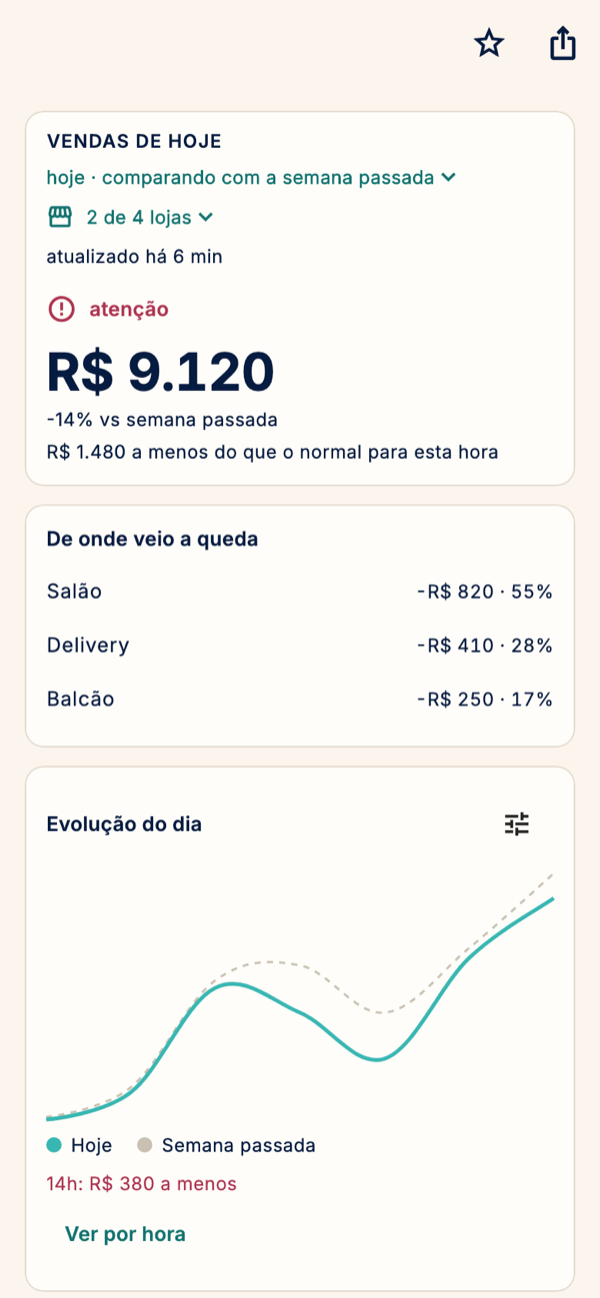
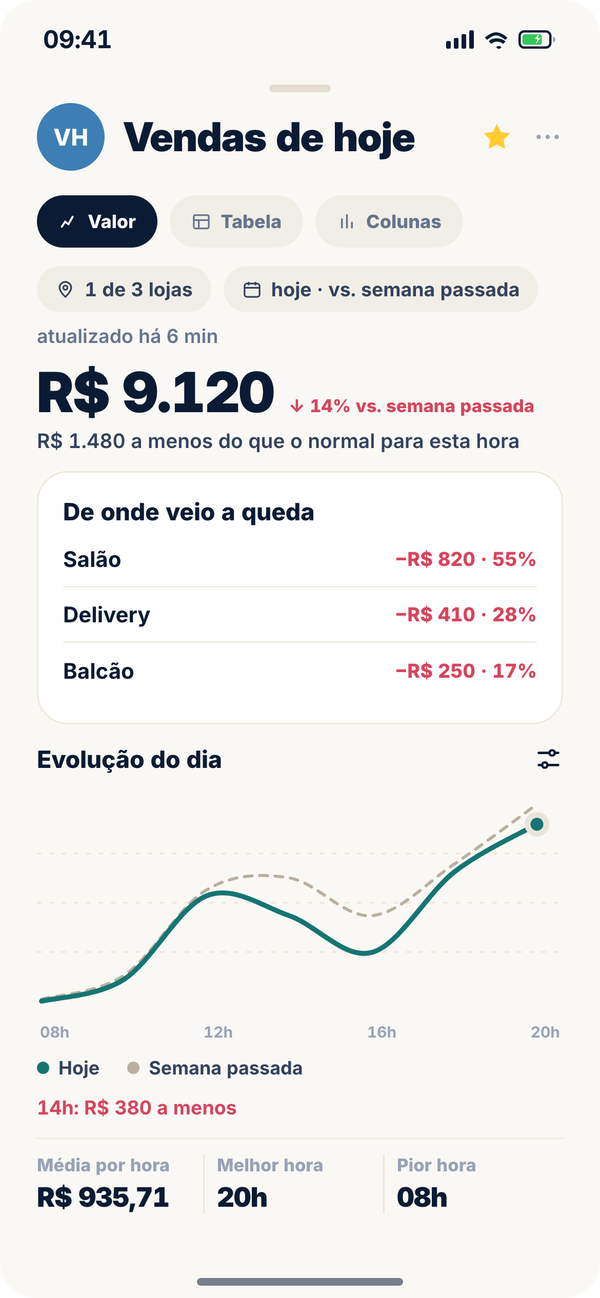
Atualiza os screenshots do Metria

diff --git a/index.html b/index.html
@@ -96,10 +96,10 @@
 
       <div class="shots">
         <div class="shot">
-          <img src="assets/metria-pulso.png" alt="Metria home screen, with the verdict for the day at the top and one card per indicator: today's sales, average ticket, customers and delivery. The app interface is in Portuguese." width="600" height="1298" loading="lazy" decoding="async">
+          <img src="assets/metria-pulso.png" alt="Metria home screen with the store name, the day's sales, average ticket and revenue by store. The app interface is in Portuguese." width="600" height="1298" loading="lazy" decoding="async">
         </div>
         <div class="shot">
-          <img src="assets/metria-detail.png" alt="Metria indicator detail screen, breaking down where the drop came from alongside the chart for the day. The app interface is in Portuguese." width="600" height="1298" loading="lazy" decoding="async">
+          <img src="assets/metria-detail.png" alt="Metria indicator detail screen with the drop broken down by sales channel, the day's evolution chart and the comparison with last week. The app interface is in Portuguese." width="600" height="1298" loading="lazy" decoding="async">
         </div>
       </div>
     </div>

diff --git a/br/index.html b/br/index.html
@@ -96,10 +96,10 @@
 
       <div class="shots">
         <div class="shot">
-          <img src="../assets/metria-pulso.png" alt="Tela inicial do Metria, com o veredito do dia no topo e um cartão por indicador: vendas de hoje, ticket médio, clientes e delivery." width="600" height="1298" loading="lazy" decoding="async">
+          <img src="../assets/metria-pulso.png" alt="Tela inicial do Metria com o nome da loja, vendas de hoje, ticket médio e faturamento por loja." width="600" height="1298" loading="lazy" decoding="async">
         </div>
         <div class="shot">
-          <img src="../assets/metria-detail.png" alt="Tela de detalhe de um indicador do Metria, com a origem da queda e o gráfico de evolução do dia." width="600" height="1298" loading="lazy" decoding="async">
+          <img src="../assets/metria-detail.png" alt="Tela de detalhe do Metria com a origem da queda por canal de venda, o gráfico de evolução do dia e a comparação com a semana passada." width="600" height="1298" loading="lazy" decoding="async">
         </div>
       </div>
     </div>

diff --git a/assets/styles.css b/assets/styles.css
@@ -212,21 +212,18 @@ body {
   justify-content: center;
 }
 
-/* A máscara dissolve o card inteiro — imagem, borda e sombra — no fundo da
-   página, em vez de sobrepor um gradiente que viraria uma faixa cinza sobre
-   o creme do app. */
+/* O print inteiro aparece: o card é o próprio celular, com a borda e a
+   sombra do site em volta dele. */
 .shot {
   position: relative;
   flex: 1 1 0;
   max-width: 260px;
-  aspect-ratio: 390 / 660;
+  aspect-ratio: 390 / 844;
   border-radius: 22px;
   overflow: hidden;
   background: #FCF5ED;
   border: 1px solid var(--color-divider);
   box-shadow: 0 18px 40px rgba(0, 0, 0, 0.28);
-  -webkit-mask-image: linear-gradient(to bottom, #000 78%, transparent 99%);
-  mask-image: linear-gradient(to bottom, #000 78%, transparent 99%);
 }
 
 .shot img {
